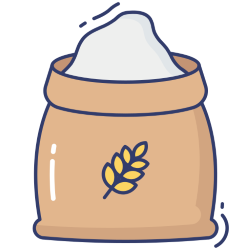
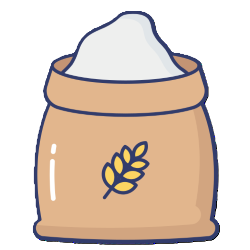
При добавлении яйца, муки и молока часть продукта убирается (то есть "используется") и возвращается на начальную позицию (координаты). Добавлены новые картинки - мука2s1.png и яйцо_для_теста.png.

diff --git a/src/Level_1.java b/src/Level_1.java
@@ -1,5 +1,3 @@
-import sun.plugin.javascript.navig.Array;
-
 import javax.swing.*;
 import java.awt.*;
 import java.awt.event.*;
@@ -23,6 +21,7 @@ public class Level_1 extends JPanel {
     private boolean eggAdded = false;
 
     public Level_1() {
+    // backgroundImage = Toolkit.getDefaultToolkit().createImage("src/img/Фон_для_основной_игры.png");
         try {
             backgroundImage = ImageIO.read(new File("src/img/Фон_для_основной_игры.png"));
         } catch (IOException e) {
@@ -40,7 +39,7 @@ public class Level_1 extends JPanel {
         product.add(new NewProduct("src/img/помидоры.png",1150,400, "tomato"));
         product.add(new NewProduct("src/img/ложка.png",900,600, "spoon"));
         product.add(new NewProduct("src/img/кетчуп.png",515,310, "ketchup"));
-        product.add(new NewProduct("src/img/миска.png",1030,560, "dish"));
+        product.add(dish = new NewProduct("src/img/миска.png",1030,560, "dish"));
         product.add(new NewProduct("src/img/оливковое масло.png",600,310, "oil"));
         product.add(new NewProduct("src/img/сыр 2.png",770,420, "cheese 2"));
         product.add(new NewProduct("src/img/нож.png",320,550, "kneef"));
@@ -57,6 +56,8 @@ public class Level_1 extends JPanel {
 
 
         addMouseListener(new MouseAdapter() {
+        int initialX;
+        int initialY;
             @Override
             public void mousePressed(MouseEvent e) {
                 for (int i = 0; i<product.size(); i++) {
@@ -64,6 +65,8 @@ public class Level_1 extends JPanel {
                         selectedProduct = product.get(i);
                         product.remove(i);
                         product.add(selectedProduct);
+                        initialX = selectedProduct.x;
+                        initialY = selectedProduct.y;
                         mouseX = e.getX() - selectedProduct.x;
                         mouseY = e.getY() - selectedProduct.y;
                         isDragging = true;
@@ -78,12 +81,13 @@ public class Level_1 extends JPanel {
             public void  mouseReleased(MouseEvent e) {
                 isDragging = false;
 
-
                 if (selectedProduct != null) {
                     if (dish.isInside(selectedProduct.x, selectedProduct.y)) {
                         if (selectedProduct.name.equals("milk") && !milkAdded) {
                             try {
                                 selectedProduct._image = ImageIO.read(new File("src/img/молоко1s3.png"));
+                                selectedProduct.x = initialX;
+                                selectedProduct.y = initialY;
                                 repaint();
                             } catch (IOException err) {
                                 System.err.println("Не удалось загрузить новое изображение молока: " + err.getMessage());
@@ -91,11 +95,25 @@ public class Level_1 extends JPanel {
 
                             milkAdded = true;
                         } else if (selectedProduct.name.equals("flour") && !flourAdded) {
-                            product.remove(selectedProduct);
+                            try {
+                                selectedProduct._image = ImageIO.read(new File("src/img/мука2s1.png"));
+                                selectedProduct.x = initialX;
+                                selectedProduct.y = initialY;
+                                repaint();
+                            } catch (IOException err) {
+                                System.err.println("Не удалось загрузить новое изображение молока: " + err.getMessage());
+                            }
                             flourAdded = true;
                         }
                         else if (selectedProduct.name.equals("egg") && !eggAdded) {
-                            product.remove(selectedProduct);
+                            try {
+                                selectedProduct._image = ImageIO.read(new File("src/img/яйцо_для_теста.png"));
+                                selectedProduct.x = initialX;
+                                selectedProduct.y = initialY;
+                                repaint();
+                            } catch (IOException err) {
+                                System.err.println("Не удалось загрузить новое изображение молока: " + err.getMessage());
+                            }
                             eggAdded = true;
                         }
 
@@ -110,6 +128,7 @@ public class Level_1 extends JPanel {
                         repaint();
                     }
                 }
+
 
                 selectedProduct = null;
             }
@@ -156,7 +175,4 @@ public class Level_1 extends JPanel {
             g.drawImage(currentProduct._image, currentProduct.x, currentProduct.y, this);
         }
     }
-
-
-    }
-
+}

diff --git a/src/NewProduct.java b/src/NewProduct.java
@@ -7,10 +7,13 @@ public class NewProduct {
     public BufferedImage _image;
     public int x, y;
     public String name;
+    int startX, startY;
 
     public NewProduct(String imagePath, int x, int y, String name) {
         this.x = x;
         this.y = y;
+        this.startX = x;
+        this.startY = y;
         this.name = name;
         try {
             _image = ImageIO.read(new File(imagePath));

diff --git a/src/Play.java b/src/Play.java
@@ -14,8 +14,6 @@ public class Play extends JFrame {
     Image fon = Toolkit.getDefaultToolkit().createImage("src/img/фон для заставки.png");
     Ch knopkaPlay = new Ch("src/img/кнопка Play.png",480,230);
 
-    public int left =1;
-
     Play()
     {
         getContentPane().add(new JLabel(new ImageIcon("src/img/фон для заставки.png")));

diff --git a/src/Main.java b/src/Main.java
@@ -1,4 +1,4 @@
-import javax.swing.*;
+/*import javax.swing.*;
 
 public class Main {
 
@@ -11,4 +11,4 @@ public class Main {
         f.setVisible(true);
         f.setDefaultCloseOperation(JFrame.EXIT_ON_CLOSE);
     }
-}
+}*/
